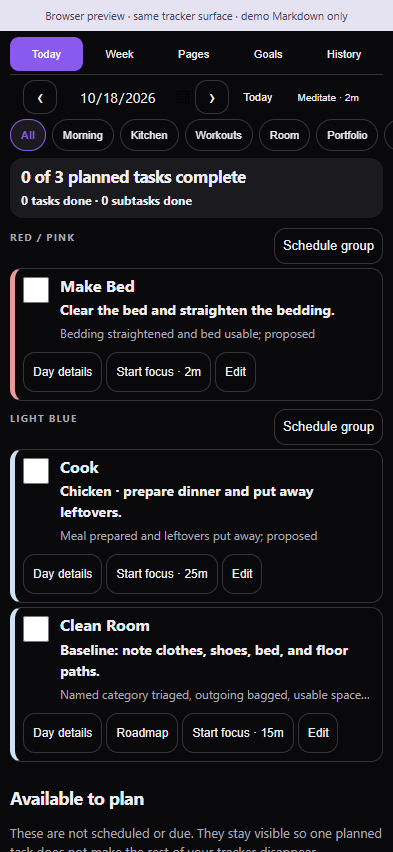
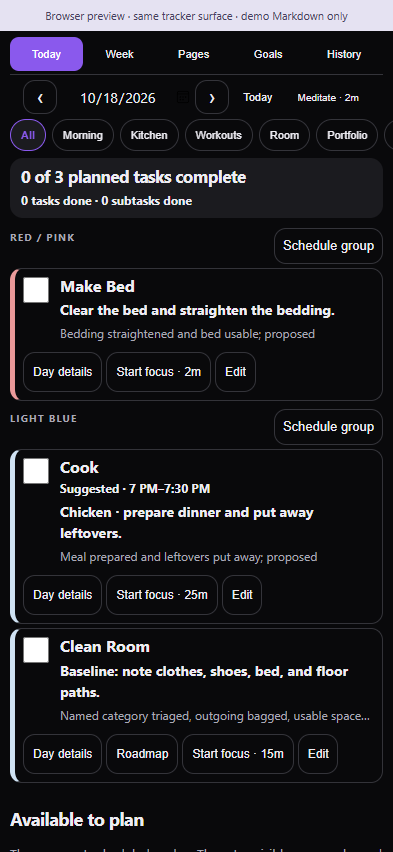
Show suggested calendar times and protect availability blocks

Changed region(s): [[0.0, 0.5493, 0.9771, 1.0], [0.9466, 0.885, 0.9771, 0.9155]]

diff --git a/main.js b/main.js
@@ -42,8 +42,10 @@ var QUEUE_TIMER_HEADER = "| Session ID | Task ID | Date | Started ISO | Elapsed 
 var LEGACY_TIMER_HEADER = "| Session ID | Task ID | Date | Started ISO | Elapsed seconds | Target seconds |";
 var WORKOUT_LOG_HEADER = "| ID | Date | Task ID | Duration minutes | Distance miles | Sets / reps / load | Notes |";
 var QUICK_COUNT_HEADER = "| ID | Date | Task ID | Amount | Unit |";
+var TIME_BLOCK_HEADER = "| Date | Task ID | Start | End | Time zone | Status | Calendar event ID | Event URL |";
+var AVAILABILITY_HEADER = "| ID | Label | Days | Start | End | Time zone |";
 var SECTIONS = ["Tasks", "Schedule", "Goals", "Sessions", "Timer"];
-var OPTIONAL_SECTIONS = ["Reflections", "Workout Log", "Quick Counts", "Subtasks"];
+var OPTIONAL_SECTIONS = ["Reflections", "Workout Log", "Quick Counts", "Subtasks", "Time Blocks", "Availability"];
 function localDay(date = /* @__PURE__ */ new Date()) {
   return `${date.getFullYear()}-${String(date.getMonth() + 1).padStart(2, "0")}-${String(date.getDate()).padStart(2, "0")}`;
 }
@@ -213,7 +215,43 @@ function parseBoard(text) {
     return sub;
   }) : [];
   unique(subtasks.map((sub) => sub.id), "subtask");
-  return { tasks, entries, goals, sessions, timer, workoutLogs, quickCounts, reflections, subtasks, start, end };
+  const timeRange = rs.get("Time Blocks");
+  const timeBlocks = timeRange ? table(lines, timeRange, TIME_BLOCK_HEADER).map((p) => ({ date: p[0], taskId: p[1], start: p[2], end: p[3], timezone: p[4], status: p[5], eventId: p[6], eventUrl: p[7] })) : [];
+  for (const block of timeBlocks) {
+    if (!validDay(block.date) || !taskIds.has(block.taskId) || !validTime(block.start) || !validTime(block.end) || block.end <= block.start || !validTimezone(block.timezone) || !["suggested", "scheduled", "needs-review"].includes(block.status)) throw new Error("Time Blocks need a real task/date, HH:MM start/end, time zone, and valid status.");
+    if (block.status === "scheduled" && (!block.eventId || block.eventId === "-")) throw new Error("Scheduled blocks need a verified calendar event ID.");
+    if (block.eventUrl !== "-" && !/^https:\/\/(calendar\.google\.com|www\.google\.com)\//.test(block.eventUrl)) throw new Error("Event URL must be a Google Calendar HTTPS link or -.");
+  }
+  if (new Set(timeBlocks.map((block) => `${block.date}/${block.taskId}`)).size !== timeBlocks.length) throw new Error("Duplicate time block for task/date.");
+  const availRange = rs.get("Availability");
+  const availability = availRange ? table(lines, availRange, AVAILABILITY_HEADER).map((p) => ({ id: p[0], label: p[1], days: p[2], start: p[3], end: p[4], timezone: p[5] })) : [];
+  unique(availability.map((block) => block.id), "availability");
+  for (const block of availability) if (!block.label || !validRepeat(block.days) || !validTime(block.start) || !validTime(block.end) || block.end <= block.start || !validTimezone(block.timezone)) throw new Error("Availability blocks need a label, repeat days, HH:MM start/end and time zone.");
+  return { tasks, entries, goals, sessions, timer, workoutLogs, quickCounts, reflections, subtasks, timeBlocks, availability, start, end };
+}
+function validTime(value) {
+  return /^([01]\d|2[0-3]):[0-5]\d$/.test(value);
+}
+function validTimezone(value) {
+  try {
+    new Intl.DateTimeFormat("en", { timeZone: value });
+    return true;
+  } catch {
+    return false;
+  }
+}
+function clockLabel(value) {
+  const [hour, minute] = value.split(":").map(Number);
+  return `${hour % 12 || 12}${minute ? ":" + String(minute).padStart(2, "0") : ""}${hour < 12 ? " AM" : " PM"}`;
+}
+function timeBlockFor(board, taskId, date) {
+  return board.timeBlocks.find((block) => block.date === date && block.taskId === taskId);
+}
+function timeBlockLabel(block) {
+  return `${block.status === "scheduled" ? "On calendar" : block.status === "needs-review" ? "Review time" : "Suggested"} \xB7 ${clockLabel(block.start)}\u2013${clockLabel(block.end)}`;
+}
+function availabilityFor(board, date) {
+  return board.availability.filter((block) => scheduled({ repeat: block.days }, date));
 }
 function taskSubtasks(board, taskId, date) {
   const detail = entryFor(board, taskId, date)?.detail.toLowerCase() || "";
@@ -302,6 +340,31 @@ function scheduleGroup(text, group, date) {
     }
   }
   return next;
+}
+function saveTimeBlock(text, block) {
+  const board = parseBoard(text);
+  if (!validTime(block.start) || !validTime(block.end) || block.end <= block.start) throw new Error("Use HH:MM start and end, with end after start.");
+  const conflict = availabilityFor(board, block.date).find((fixed) => fixed.timezone === block.timezone && block.start < fixed.end && block.end > fixed.start);
+  if (conflict) throw new Error(`This overlaps ${conflict.label} (${clockLabel(conflict.start)}\u2013${clockLabel(conflict.end)}). Choose an open time.`);
+  if (board.timeBlocks.some((other) => other.date === block.date && other.taskId !== block.taskId && other.timezone === block.timezone && block.start < other.end && block.end > other.start)) throw new Error("This overlaps another task on this date. Choose an open time.");
+  const nl = text.includes("\r\n") ? "\r\n" : "\n";
+  let next = text;
+  if (!ranges(text.split(/\r?\n/)).has("Time Blocks")) next += `${nl}## Time Blocks${nl}${nl}${TIME_BLOCK_HEADER}${nl}| --- | --- | --- | --- | --- | --- | --- | --- |${nl}`;
+  const row = `| ${[block.date, block.taskId, block.start, block.end, block.timezone, block.status, block.eventId || "-", block.eventUrl || "-"].map(cell).join(" | ")} |`;
+  next = lineEdit(next, "Time Blocks", (line) => {
+    const p = splitCells(line);
+    return p[0] === block.date && p[1] === block.taskId;
+  }, () => row, row);
+  parseBoard(next);
+  if (!entryFor(board, block.taskId, block.date)) next = setEntry(next, block.date, block.taskId, false);
+  return next;
+}
+function clearTimeBlock(text, taskId, date) {
+  if (!parseBoard(text).timeBlocks.some((block) => block.taskId === taskId && block.date === date)) return text;
+  return lineEdit(text, "Time Blocks", (line) => {
+    const p = splitCells(line);
+    return p[0] === date && p[1] === taskId;
+  }, () => "", "");
 }
 function saveSubtask(text, sub) {
   let next = text;
@@ -732,6 +795,8 @@ var Surface = class {
     const meditation = b.tasks.find((t) => t.id === "mindfulness");
     if (meditation) this.button(controls, meditation.minutes ? `Meditate \xB7 ${meditation.minutes}m` : "Meditate", () => this.beginFocus(() => this.host.start(meditation, this.day)), "cs-link cs-meditate", "Start meditation mode");
     this.el("p", this.root, "cs-muted cs-sprint", `Sprint ${b.start} \u2192 ${b.end}`);
+    const fixed = availabilityFor(b, this.day);
+    if (fixed.length) this.el("p", this.root, "cs-day-availability", fixed.map((block) => `${block.label} ${clockLabel(block.start)}\u2013${clockLabel(block.end)}`).join(" \xB7 "));
     if (b.timer) this.renderTimer();
     if (this.tab === "Today") this.renderToday();
     else if (this.tab === "Week") this.renderWeek();
@@ -850,6 +915,18 @@ var Surface = class {
     const body = this.el("div", row, "cs-card-body");
     this.el("h3", body, "cs-task-title", task.title);
     this.el("p", body, "cs-meta", `${task.page} \xB7 ${task.kind}`);
+    const block = timeBlockFor(b, task.id, this.day);
+    if (block) {
+      const time = this.el("p", body, "cs-time-slot", timeBlockLabel(block));
+      time.title = block.timezone;
+      if (block.status === "scheduled" && block.eventUrl !== "-") {
+        const link = this.el("a", time, "cs-event-link", " \u2197");
+        link.href = block.eventUrl;
+        link.setAttribute("aria-label", "Open Google Calendar event");
+        link.target = "_blank";
+        link.rel = "noopener noreferrer";
+      }
+    }
     if (entry?.detail) this.el("p", body, "cs-detail", entry.detail);
     this.el("p", body, "cs-definition", task.definition);
     const actions = this.el("div", card, "cs-actions");
@@ -936,8 +1013,13 @@ var Surface = class {
         for (const day of days) {
           const entry = entryFor(this.board, task.id, day);
           const isPlanned = planned(this.board, task, day);
+          const block = timeBlockFor(this.board, task.id, day);
           const cell2 = this.el("td", row);
-          const btn = this.button(cell2, entry?.done ? "\u2713" : isPlanned ? "\u25CB" : "+", () => isPlanned ? this.host.check(task, day, !entry?.done) : this.host.schedule(task, day, ""), entry?.done ? "cs-cell done" : isPlanned ? "cs-cell planned" : "cs-cell", `${task.title}, ${day}: ${entry?.done ? "completed" : isPlanned ? "planned" : "add to plan"}`);
+          const btn = this.button(cell2, entry?.done ? "\u2713" : isPlanned ? "\u25CB" : "+", () => isPlanned ? this.host.check(task, day, !entry?.done) : this.host.schedule(task, day, ""), entry?.done ? "cs-cell done" : isPlanned ? "cs-cell planned" : "cs-cell", `${task.title}, ${day}: ${entry?.done ? "completed" : isPlanned ? "planned" : "add to plan"}${block ? `, ${timeBlockLabel(block)}, ${block.timezone}` : ""}`);
+          if (block) {
+            this.el("span", btn, "cs-cell-time", `${block.status === "scheduled" ? "" : "~"}${clockLabel(block.start)}`);
+            btn.title = `${timeBlockLabel(block)} \xB7 ${block.timezone}`;
+          }
           btn.setAttribute("aria-pressed", String(!!entry?.done));
         }
       }
@@ -1745,13 +1827,29 @@ var SessionModal = class extends FormModal {
 var EntryModal = class extends FormModal {
   constructor(app, plugin, task, day, text, path = plugin.settings.path) {
     super(app, `${task.title} \xB7 ${day}`);
-    const original = entryFor(parseBoard(text), task.id, day);
+    const board = parseBoard(text);
+    const original = entryFor(board, task.id, day);
+    const originalBlock = timeBlockFor(board, task.id, day);
     let detail = original?.detail || "";
+    let start = originalBlock?.start || "", end = originalBlock?.end || "", timezone = originalBlock?.timezone || board.availability[0]?.timezone || "America/Chicago";
     this.text("Plan / actual result", "Keep source assignments intact; add actual sets, reps, distances, evidence, or blockers here.", detail, (v) => detail = v);
+    this.field("Suggested start", "24-hour local time, such as 19:00; leave both time fields empty for flexible.", start, (v) => start = v, "time");
+    this.field("Suggested end", "Same day, after the start.", end, (v) => end = v, "time");
+    this.field("Time zone", "Time zone used by the calendar block.", timezone, (v) => timezone = v.trim());
     this.save(() => plugin.change((current) => {
-      const entry = entryFor(parseBoard(current), task.id, day);
-      if (JSON.stringify(entry) !== JSON.stringify(original)) throw new Error("This entry changed in Markdown. Reopen the latest version.");
-      return setEntry(current, day, task.id, entry?.done || false, detail);
+      const latest = parseBoard(current);
+      const entry = entryFor(latest, task.id, day);
+      const block = timeBlockFor(latest, task.id, day);
+      if (JSON.stringify(entry) !== JSON.stringify(original) || JSON.stringify(block) !== JSON.stringify(originalBlock)) throw new Error("This entry changed in Markdown. Reopen the latest version.");
+      let next = setEntry(current, day, task.id, entry?.done || false, detail);
+      if (start || end) {
+        const changed = start !== originalBlock?.start || end !== originalBlock?.end || timezone !== originalBlock?.timezone;
+        next = saveTimeBlock(next, { date: day, taskId: task.id, start, end, timezone, status: changed ? "suggested" : originalBlock?.status || "suggested", eventId: originalBlock?.eventId || "-", eventUrl: originalBlock?.eventUrl || "-" });
+      } else {
+        if (block?.eventId && block.eventId !== "-") throw new Error("This time has a calendar event. Change its time and reconcile the linked event before clearing it.");
+        next = clearTimeBlock(next, task.id, day);
+      }
+      return next;
     }, path));
   }
 };

diff --git a/src/model.ts b/src/model.ts
@@ -17,7 +17,9 @@ export interface FocusStep {id:string; taskId:string; subtask?:Subtask; title:st
 export interface WorkoutLog {id:string; date:string; taskId:'workout'|'treadmill'; minutes:number; distance:number; details:string; note:string}
 export interface QuickCount {id:string; date:string; taskId:string; amount:number; unit:string}
 export interface GroupRef {kind:'page'|'color'; value:string}
-export interface Board {tasks:Task[]; entries:Entry[]; goals:Goal[]; sessions:Session[]; timer:Timer|null; workoutLogs:WorkoutLog[]; quickCounts:QuickCount[]; reflections:string[]; subtasks:Subtask[]; start:string; end:string}
+export interface TimeBlock {date:string;taskId:string;start:string;end:string;timezone:string;status:'suggested'|'scheduled'|'needs-review';eventId:string;eventUrl:string}
+export interface Availability {id:string;label:string;days:string;start:string;end:string;timezone:string}
+export interface Board {tasks:Task[]; entries:Entry[]; goals:Goal[]; sessions:Session[]; timer:Timer|null; workoutLogs:WorkoutLog[]; quickCounts:QuickCount[]; reflections:string[]; subtasks:Subtask[]; timeBlocks:TimeBlock[]; availability:Availability[]; start:string; end:string}
 export const TASK_HEADER='| ID | Task | Color | Page | Kind | Repeat | Timer minutes | Done means |';
 export const SESSION_HEADER='| Session ID | Date | Task ID | Seconds | Note |';
 export const TIMER_HEADER='| Session ID | Task ID | Date | Started ISO | Elapsed seconds | Target seconds | Queue cursor | Step offset seconds |';
@@ -25,7 +27,9 @@ const QUEUE_TIMER_HEADER='| Session ID | Task ID | Date | Started ISO | Elapsed 
 const LEGACY_TIMER_HEADER='| Session ID | Task ID | Date | Started ISO | Elapsed seconds | Target seconds |';
 export const WORKOUT_LOG_HEADER='| ID | Date | Task ID | Duration minutes | Distance miles | Sets / reps / load | Notes |';
 export const QUICK_COUNT_HEADER='| ID | Date | Task ID | Amount | Unit |';
-const SECTIONS=['Tasks','Schedule','Goals','Sessions','Timer'];const OPTIONAL_SECTIONS=['Reflections','Workout Log','Quick Counts','Subtasks'];
+export const TIME_BLOCK_HEADER='| Date | Task ID | Start | End | Time zone | Status | Calendar event ID | Event URL |';
+export const AVAILABILITY_HEADER='| ID | Label | Days | Start | End | Time zone |';
+const SECTIONS=['Tasks','Schedule','Goals','Sessions','Timer'];const OPTIONAL_SECTIONS=['Reflections','Workout Log','Quick Counts','Subtasks','Time Blocks','Availability'];
 export function localDay(date=new Date()):string {return `${date.getFullYear()}-${String(date.getMonth()+1).padStart(2,'0')}-${String(date.getDate()).padStart(2,'0')}`;}
 export function addDays(day:string,n:number):string {const d=new Date(`${day}T12:00:00`);d.setDate(d.getDate()+n);return localDay(d);}
 export function validDay(day:string):boolean {return /^\d{4}-\d{2}-\d{2}$/.test(day)&&localDay(new Date(`${day}T12:00:00`))===day;}
@@ -74,8 +78,18 @@ export function parseBoard(text:string):Board {
   const reflectionRange=rs.get('Reflections');const reflections=reflectionRange?dataLines(lines,reflectionRange).map(line=>line.trim().replace(/^[-*]\s+|^>\s?/,'')).filter(line=>line&&!line.startsWith('<!--')):[];
   const match=text.match(/^Sprint: (\d{4}-\d{2}-\d{2}) \/ (\d{4}-\d{2}-\d{2})\s*$/m);const start=match?.[1]||localDay();const end=match?.[2]||addDays(start,13);if(!validDay(start)||!validDay(end)||end<start)throw new Error('Invalid Sprint date range.');
   const subRange=rs.get('Subtasks');const subtasks=subRange?checkboxRows(lines,subRange).map(({done,parts:p})=>{if(p.length!==7)throw new Error('Subtask rows need ID | Task ID | Context or - | Minutes | Action | Done means | Completed date or -.');const sub:Subtask={id:p[0],taskId:p[1],context:p[2],minutes:number(p[3]),title:p[4],definition:p[5],completed:p[6],done};if(!taskIds.has(sub.taskId)||!sub.title||!sub.context||sub.minutes>1440||(sub.completed!=='-'&&!validDay(sub.completed)))throw new Error('Invalid subtask parent, title, duration, or completed date.');return sub;}):[];unique(subtasks.map(sub=>sub.id),'subtask');
-  return {tasks,entries,goals,sessions,timer,workoutLogs,quickCounts,reflections,subtasks,start,end};
+  const timeRange=rs.get('Time Blocks');const timeBlocks=timeRange?table(lines,timeRange,TIME_BLOCK_HEADER).map(p=>({date:p[0],taskId:p[1],start:p[2],end:p[3],timezone:p[4],status:p[5] as TimeBlock['status'],eventId:p[6],eventUrl:p[7]})):[];
+  for(const block of timeBlocks){if(!validDay(block.date)||!taskIds.has(block.taskId)||!validTime(block.start)||!validTime(block.end)||block.end<=block.start||!validTimezone(block.timezone)||!['suggested','scheduled','needs-review'].includes(block.status))throw new Error('Time Blocks need a real task/date, HH:MM start/end, time zone, and valid status.');if(block.status==='scheduled'&&(!block.eventId||block.eventId==='-'))throw new Error('Scheduled blocks need a verified calendar event ID.');if(block.eventUrl!=='-'&&!/^https:\/\/(calendar\.google\.com|www\.google\.com)\//.test(block.eventUrl))throw new Error('Event URL must be a Google Calendar HTTPS link or -.');}
+  if(new Set(timeBlocks.map(block=>`${block.date}/${block.taskId}`)).size!==timeBlocks.length)throw new Error('Duplicate time block for task/date.');
+  const availRange=rs.get('Availability');const availability=availRange?table(lines,availRange,AVAILABILITY_HEADER).map(p=>({id:p[0],label:p[1],days:p[2],start:p[3],end:p[4],timezone:p[5]})):[];unique(availability.map(block=>block.id),'availability');for(const block of availability)if(!block.label||!validRepeat(block.days)||!validTime(block.start)||!validTime(block.end)||block.end<=block.start||!validTimezone(block.timezone))throw new Error('Availability blocks need a label, repeat days, HH:MM start/end and time zone.');
+  return {tasks,entries,goals,sessions,timer,workoutLogs,quickCounts,reflections,subtasks,timeBlocks,availability,start,end};
 }
+export function validTime(value:string):boolean{return /^([01]\d|2[0-3]):[0-5]\d$/.test(value);}
+function validTimezone(value:string):boolean{try{new Intl.DateTimeFormat('en',{timeZone:value});return true;}catch{return false;}}
+export function clockLabel(value:string):string{const [hour,minute]=value.split(':').map(Number);return `${hour%12||12}${minute?':'+String(minute).padStart(2,'0'):''}${hour<12?' AM':' PM'}`;}
+export function timeBlockFor(board:Board,taskId:string,date:string):TimeBlock|undefined{return board.timeBlocks.find(block=>block.date===date&&block.taskId===taskId);}
+export function timeBlockLabel(block:TimeBlock):string{return `${block.status==='scheduled'?'On calendar':block.status==='needs-review'?'Review time':'Suggested'} · ${clockLabel(block.start)}–${clockLabel(block.end)}`;}
+export function availabilityFor(board:Board,date:string):Availability[]{return board.availability.filter(block=>scheduled({repeat:block.days} as Task,date));}
 export function taskSubtasks(board:Board,taskId:string,date:string):Subtask[]{const detail=entryFor(board,taskId,date)?.detail.toLowerCase()||'';return board.subtasks.filter(sub=>sub.taskId===taskId&&(sub.context==='-'||detail.includes(sub.context.toLowerCase())));}
 export function focusQueue(board:Board,timer:Timer):FocusStep[]{const group=parseGroupTimerId(timer.taskId);const tasks=board.tasks.filter(task=>group?(group.kind==='page'?task.page===group.value:task.color===group.value):task.id===timer.taskId);return tasks.flatMap(task=>{const subs=taskSubtasks(board,task.id,timer.date);return subs.length?subs.map(sub=>({id:sub.id,taskId:task.id,subtask:sub,title:sub.title,definition:sub.definition,minutes:sub.minutes,done:sub.done})):[{id:task.id,taskId:task.id,title:task.title,definition:task.definition,minutes:task.minutes,done:!!entryFor(board,task.id,timer.date)?.done}];});}
 export function dailyWins(board:Board,date:string):{tasks:number;subtasks:number}{return {tasks:board.entries.filter(entry=>entry.date===date&&entry.done).length,subtasks:board.subtasks.filter(sub=>sub.done&&sub.completed===date).length};}
@@ -97,6 +111,14 @@ export function setEntry(text:string,date:string,id:string,done:boolean,detail?:
 export function scheduleGroup(text:string,group:GroupRef,date:string):string{
   let board=parseBoard(text);if(!validDay(date)||!group.value.trim())throw new Error('A schedule group needs a valid date and group.');const tasks=board.tasks.filter(task=>group.kind==='page'?task.page===group.value:task.color===group.value);if(!tasks.length)throw new Error('This schedule group has no tasks.');let next=text;for(const task of tasks){if(!entryFor(board,task.id,date)){next=setEntry(next,date,task.id,false);board=parseBoard(next);}}return next;
 }
+export function saveTimeBlock(text:string,block:TimeBlock):string{
+  const board=parseBoard(text);if(!validTime(block.start)||!validTime(block.end)||block.end<=block.start)throw new Error('Use HH:MM start and end, with end after start.');const conflict=availabilityFor(board,block.date).find(fixed=>fixed.timezone===block.timezone&&block.start<fixed.end&&block.end>fixed.start);if(conflict)throw new Error(`This overlaps ${conflict.label} (${clockLabel(conflict.start)}–${clockLabel(conflict.end)}). Choose an open time.`);
+  if(board.timeBlocks.some(other=>other.date===block.date&&other.taskId!==block.taskId&&other.timezone===block.timezone&&block.start<other.end&&block.end>other.start))throw new Error('This overlaps another task on this date. Choose an open time.');
+  const nl=text.includes('\r\n')?'\r\n':'\n';let next=text;if(!ranges(text.split(/\r?\n/)).has('Time Blocks'))next+=`${nl}## Time Blocks${nl}${nl}${TIME_BLOCK_HEADER}${nl}| --- | --- | --- | --- | --- | --- | --- | --- |${nl}`;
+  const row=`| ${[block.date,block.taskId,block.start,block.end,block.timezone,block.status,block.eventId||'-',block.eventUrl||'-'].map(cell).join(' | ')} |`;
+  next=lineEdit(next,'Time Blocks',line=>{const p=splitCells(line);return p[0]===block.date&&p[1]===block.taskId;},()=>row,row);parseBoard(next);if(!entryFor(board,block.taskId,block.date))next=setEntry(next,block.date,block.taskId,false);return next;
+}
+export function clearTimeBlock(text:string,taskId:string,date:string):string{if(!parseBoard(text).timeBlocks.some(block=>block.taskId===taskId&&block.date===date))return text;return lineEdit(text,'Time Blocks',line=>{const p=splitCells(line);return p[0]===date&&p[1]===taskId;},()=>'', '');}
 export function saveSubtask(text:string,sub:Subtask):string{
   let next=text;const nl=text.includes('\r\n')?'\r\n':'\n';if(!ranges(text.split(/\r?\n/)).has('Subtasks'))next+=`${nl}## Subtasks${nl}${nl}<!-- - [ ] ID | Task ID | Context or - | Minutes | Action | Done means | Completed date or - -->${nl}`;
   const row=`- [${sub.done?'x':' '}] ${[sub.id,sub.taskId,sub.context,String(sub.minutes),sub.title,sub.definition,sub.completed].map(cell).join(' | ')}`;

diff --git a/src/surface.ts b/src/surface.ts
@@ -1,4 +1,4 @@
-import { Board, COLORS, ColorId, Task, Goal, WorkoutLog, QuickCount, GroupRef, Subtask, parseBoard, entryFor, planned, addDays, localDay, timerSeconds, duration, parseGroupTimerId, focusQueue, taskSubtasks, setSubtaskDone, completeFocusStep, dailyWins } from './model';
+import { Board, COLORS, ColorId, Task, Goal, WorkoutLog, QuickCount, GroupRef, Subtask, parseBoard, entryFor, planned, addDays, localDay, timerSeconds, duration, parseGroupTimerId, focusQueue, taskSubtasks, setSubtaskDone, completeFocusStep, dailyWins, timeBlockFor, timeBlockLabel, availabilityFor, clockLabel } from './model';
 import { addRoadmap } from './roadmaps';
 
 export interface Host {
@@ -55,6 +55,7 @@ export class Surface {
     const date=this.el('input',controls,'cs-date');date.type='date';date.value=this.day;date.setAttribute('aria-label','Selected date');date.addEventListener('change',()=>{if(date.value){this.day=date.value;this.render();}});
     this.button(controls,'›',()=>{this.day=addDays(this.day,1);this.render();},'cs-icon','Next day');this.button(controls,'Today',()=>{this.day=localDay();this.render();},'cs-link');const meditation=b.tasks.find(t=>t.id==='mindfulness');if(meditation)this.button(controls,meditation.minutes?`Meditate · ${meditation.minutes}m`:'Meditate',()=>this.beginFocus(()=>this.host.start(meditation,this.day)),'cs-link cs-meditate','Start meditation mode');
     this.el('p',this.root,'cs-muted cs-sprint',`Sprint ${b.start} → ${b.end}`);
+    const fixed=availabilityFor(b,this.day);if(fixed.length)this.el('p',this.root,'cs-day-availability',fixed.map(block=>`${block.label} ${clockLabel(block.start)}–${clockLabel(block.end)}`).join(' · '));
     if(b.timer)this.renderTimer();
     if(this.tab==='Today')this.renderToday();else if(this.tab==='Week')this.renderWeek();else if(this.tab==='Pages')this.renderPages();else if(this.tab==='Goals')this.renderGoals();else this.renderHistory();
     const mobileTools=this.el('footer',this.root,'cs-mobile-tools');this.button(mobileTools,'Markdown ↗',()=>this.host.openNote(),'cs-link');this.button(mobileTools,'Settings',()=>this.host.settings(),'cs-link');if(this.host.openDaily)this.button(mobileTools,'Daily note ↗',()=>this.host.openDaily!(),'cs-link');
@@ -81,7 +82,7 @@ export class Surface {
     const b=this.board!;const entry=entryFor(b,task.id,this.day);const card=this.el('article',parent,`cs-card ${entry?.done?'is-done':''}`);this.taskColor(task,card);
     const row=this.el('div',card,'cs-card-main');
     if(scheduledToday){const target=this.el('label',row,'cs-check-target');const check=this.el('input',target,'cs-check');check.type='checkbox';check.checked=!!entry?.done;check.setAttribute('aria-label',`Complete ${task.title}`);check.addEventListener('change',()=>{void this.run(async()=>{try{await this.host.check(task,this.day,check.checked);}catch(e){check.checked=!check.checked;throw e;}});});}
-    const body=this.el('div',row,'cs-card-body');this.el('h3',body,'cs-task-title',task.title);this.el('p',body,'cs-meta',`${task.page} · ${task.kind}`);if(entry?.detail)this.el('p',body,'cs-detail',entry.detail);this.el('p',body,'cs-definition',task.definition);
+    const body=this.el('div',row,'cs-card-body');this.el('h3',body,'cs-task-title',task.title);this.el('p',body,'cs-meta',`${task.page} · ${task.kind}`);const block=timeBlockFor(b,task.id,this.day);if(block){const time=this.el('p',body,'cs-time-slot',timeBlockLabel(block));time.title=block.timezone;if(block.status==='scheduled'&&block.eventUrl!=='-'){const link=this.el('a',time,'cs-event-link',' ↗');link.href=block.eventUrl;link.setAttribute('aria-label','Open Google Calendar event');link.target='_blank';link.rel='noopener noreferrer';}}if(entry?.detail)this.el('p',body,'cs-detail',entry.detail);this.el('p',body,'cs-definition',task.definition);
     const actions=this.el('div',card,'cs-actions');if(!scheduledToday)this.button(actions,'+ Plan this day',()=>this.host.schedule(task,this.day,''),'cs-small');
     if(scheduledToday)this.button(actions,'Day details',()=>this.host.editEntry(task,this.day),'cs-small');
     if(task.id==='workout'||task.id==='treadmill')this.button(actions,task.id==='workout'?'Manage workout':'Manage treadmill',()=>{this.activitySurface=task.id as 'workout'|'treadmill';this.render();},'cs-small');const increments=this.quickIncrements(task);if(increments.length){const total=this.board!.quickCounts.filter(count=>count.date===this.day&&count.taskId===task.id&&count.unit===increments[0].unit).reduce((sum,count)=>sum+count.amount,0);if(total)this.el('span',actions,'cs-quick-total',`Today: ${total} ${increments[0].unit}`);for(const increment of increments)this.button(actions,`+${increment.amount} ${increment.unit}`,()=>this.host.quickCount({date:this.day,taskId:task.id,amount:increment.amount,unit:increment.unit}),'cs-small cs-quick',`Add ${increment.amount} ${increment.unit} for ${task.title}`);}
@@ -98,7 +99,7 @@ export class Surface {
   private renderWeek():void {
     this.pageFilter(this.root);this.el('h2',this.root,'','The next seven days');this.el('p',this.root,'cs-muted','✓ completed · ○ planned · + unscheduled. Tap + to plan; tap a planned day to check it.');
     const wrap=this.el('div',this.root,'cs-grid-scroll');const table=this.el('table',wrap,'cs-grid');const thead=this.el('thead',table);const head=this.el('tr',thead);this.el('th',head,'','Task');const days=Array.from({length:7},(_,i)=>addDays(this.day,i));for(const day of days){const th=this.el('th',head,'',new Date(`${day}T12:00:00`).toLocaleDateString(undefined,{weekday:'short',day:'numeric'}));th.scope='col';}
-    const body=this.el('tbody',table);for(const color of COLORS){for(const task of this.board!.tasks.filter(t=>t.color===color.id&&(this.page==='All'||t.page===this.page))){const row=this.el('tr',body);this.taskColor(task,row);const name=this.el('th',row,'cs-grid-name',task.title);name.scope='row';for(const day of days){const entry=entryFor(this.board!,task.id,day);const isPlanned=planned(this.board!,task,day);const cell=this.el('td',row);const btn=this.button(cell,entry?.done?'✓':isPlanned?'○':'+',()=>isPlanned?this.host.check(task,day,!entry?.done):this.host.schedule(task,day,''),entry?.done?'cs-cell done':isPlanned?'cs-cell planned':'cs-cell',`${task.title}, ${day}: ${entry?.done?'completed':isPlanned?'planned':'add to plan'}`);btn.setAttribute('aria-pressed',String(!!entry?.done));}}}
+    const body=this.el('tbody',table);for(const color of COLORS){for(const task of this.board!.tasks.filter(t=>t.color===color.id&&(this.page==='All'||t.page===this.page))){const row=this.el('tr',body);this.taskColor(task,row);const name=this.el('th',row,'cs-grid-name',task.title);name.scope='row';for(const day of days){const entry=entryFor(this.board!,task.id,day);const isPlanned=planned(this.board!,task,day);const block=timeBlockFor(this.board!,task.id,day);const cell=this.el('td',row);const btn=this.button(cell,entry?.done?'✓':isPlanned?'○':'+',()=>isPlanned?this.host.check(task,day,!entry?.done):this.host.schedule(task,day,''),entry?.done?'cs-cell done':isPlanned?'cs-cell planned':'cs-cell',`${task.title}, ${day}: ${entry?.done?'completed':isPlanned?'planned':'add to plan'}${block?`, ${timeBlockLabel(block)}, ${block.timezone}`:''}`);if(block){this.el('span',btn,'cs-cell-time',`${block.status==='scheduled'?'':'~'}${clockLabel(block.start)}`);btn.title=`${timeBlockLabel(block)} · ${block.timezone}`;}btn.setAttribute('aria-pressed',String(!!entry?.done));}}}
   }
   private renderGoals():void {
     this.pageFilter(this.root);this.el('h2',this.root,'','Goals with evidence');const goals=this.board!.goals.filter(g=>this.page==='All'||g.page===this.page);

diff --git a/scripts/preview.ts b/scripts/preview.ts
@@ -1,6 +1,6 @@
 import { Surface,Host } from '../src/surface';
 import { starter } from '../src/starter';
-import { parseBoard,setEntry,saveTask,saveSubtask,setGoal,scheduleGroup,startTimer,startGroupTimer,moveGroupTimer,pauseTimer,resumeTimer,refreshTimer,finishTimer,addWorkoutLog,addQuickCount,localDay,addDays,entryFor,Task,Goal } from '../src/model';
+import { parseBoard,setEntry,saveTask,saveSubtask,setGoal,scheduleGroup,startTimer,startGroupTimer,moveGroupTimer,pauseTimer,resumeTimer,refreshTimer,finishTimer,addWorkoutLog,addQuickCount,localDay,addDays,entryFor,Task,Goal,timeBlockFor,saveTimeBlock,clearTimeBlock } from '../src/model';
 
 let md=localStorage.getItem('color-sprint-demo')||starter();
 if(!parseBoard(md).entries.length){const day=localDay();md=setEntry(md,day,'make-bed',false,'Clear the bed and straighten the bedding.');md=setEntry(md,day,'cook',false,'Chicken · prepare dinner and put away leftovers.');md=setEntry(md,day,'clean-room',false,'Baseline: note clothes, shoes, bed, and floor paths.');md=setGoal(md,{id:'room-fit',due:addDays(day,13),page:'Room',title:'Clothing and shoes fit their storage',evidence:'',done:false});}
@@ -12,7 +12,7 @@ const host:Host={read:async()=>md,change,
   editSubtask:(task,sub)=>dialog('Roadmap step',{Step:sub?.title||'',Minutes:String(sub?.minutes??10),Context:sub?.context||'-','Done means':sub?.definition||''},v=>change(s=>saveSubtask(s,{id:sub?.id||`step-${Date.now()}`,taskId:task.id,title:v.Step,minutes:Number(v.Minutes),context:v.Context||'-',definition:v['Done means'],done:sub?.done||false,completed:sub?.completed||'-'}))),
   editTask:(t?:Task)=>dialog(t?'Edit task':'Add task',{Task:t?.title||'',Page:t?.page||'Morning',Color:t?.color||'pink',Repeat:t?.repeat||'-','Timer minutes':String(t?.minutes??10),'Done means':t?.definition||''},async v=>{await change(s=>saveTask(s,{id:t?.id||`task-${Date.now()}`,title:v.Task,page:v.Page,color:v.Color as Task['color'],repeat:v.Repeat,minutes:Number(v['Timer minutes']),definition:v['Done means'],kind:t?.kind||'habit'}));}),
   editGoal:(g?:Goal)=>dialog('Goal progress',{Goal:g?.title||'',Page:g?.page||'Room',Due:g?.due||'-',Evidence:g?.evidence||'',Status:g?.done?'done':'open'},v=>change(s=>setGoal(s,{id:g?.id||`goal-${Date.now()}`,title:v.Goal,page:v.Page,due:v.Due,evidence:v.Evidence,done:v.Status==='done'}))),
-  editEntry:(t,day)=>dialog('Day details',{Detail:entryFor(parseBoard(md),t.id,day)?.detail||''},v=>change(s=>setEntry(s,day,t.id,entryFor(parseBoard(s),t.id,day)?.done||false,v.Detail))),
+  editEntry:(t,day)=>{const block=timeBlockFor(parseBoard(md),t.id,day);dialog('Day details',{Detail:entryFor(parseBoard(md),t.id,day)?.detail||'','Suggested start':block?.start||'','Suggested end':block?.end||'','Time zone':block?.timezone||Intl.DateTimeFormat().resolvedOptions().timeZone},v=>change(s=>{let next=setEntry(s,day,t.id,entryFor(parseBoard(s),t.id,day)?.done||false,v.Detail);return v['Suggested start']||v['Suggested end']?saveTimeBlock(next,{date:day,taskId:t.id,start:v['Suggested start'],end:v['Suggested end'],timezone:v['Time zone'],status:'suggested',eventId:block?.eventId||'-',eventUrl:block?.eventUrl||'-'}):clearTimeBlock(next,t.id,day);}));},
   schedule:(t,day,detail)=>change(s=>setEntry(s,day,t.id,false,detail)),scheduleGroup:(group,day)=>change(s=>scheduleGroup(s,group,day)),check:(t,day,done)=>change(s=>setEntry(s,day,t.id,done)),
   start:(t,day)=>change(s=>startTimer(s,t.id,day)),startGroup:(group,day)=>change(s=>startGroupTimer(s,group,day)),moveGroup:(id,delta)=>change(s=>moveGroupTimer(s,id,delta)),pause:id=>change(s=>pauseTimer(s,id)),resume:id=>change(s=>resumeTimer(s,id)),refresh:id=>change(s=>refreshTimer(s,id)),logWorkout:log=>change(s=>addWorkoutLog(s,log)),quickCount:count=>change(s=>addQuickCount(s,count)),finish:id=>dialog('Save session',{Result:''},v=>change(s=>finishTimer(s,id,v.Result))),
   openNote:()=>dialog('Tracker Markdown',{Markdown:md},v=>change(()=>v.Markdown)),createNote:()=>change(()=>starter()),settings:()=>dialog('Preview settings',{Info:'In Obsidian, this chooses your vault Markdown path.'},()=>{}),error:e=>dialog('Could not save',{Error:String(e)},()=>{})

diff --git a/src/main.ts b/src/main.ts
@@ -1,5 +1,5 @@
 import { App, ItemView, MarkdownRenderChild, Modal, Notice, Plugin, PluginSettingTab, Setting, TFile, WorkspaceLeaf, ViewStateResult, getFrontMatterInfo, parseYaml, debounce } from 'obsidian';
-import { COLORS, Task, Goal, WorkoutLog, QuickCount, GroupRef, Subtask, parseBoard, saveTask, saveSubtask, setGoal, setEntry, scheduleGroup, entryFor, startTimer, startGroupTimer, moveGroupTimer, pauseTimer, resumeTimer, refreshTimer, finishTimer, addWorkoutLog, addQuickCount, localDay, validDay } from './model';
+import { COLORS, Task, Goal, WorkoutLog, QuickCount, GroupRef, Subtask, parseBoard, saveTask, saveSubtask, setGoal, setEntry, scheduleGroup, entryFor, startTimer, startGroupTimer, moveGroupTimer, pauseTimer, resumeTimer, refreshTimer, finishTimer, addWorkoutLog, addQuickCount, localDay, validDay, timeBlockFor, saveTimeBlock, clearTimeBlock } from './model';
 import { starter } from './starter';
 import { Surface, Host, SurfaceOptions } from './surface';
 import { DailyLink, dailyLink, embedLink, dailyScaffold, dailyFilename, vaultPath } from './daily';
@@ -156,8 +156,9 @@ class SessionModal extends FormModal {
 }
 class EntryModal extends FormModal {
   constructor(app:App,plugin:ColorSprint,task:Task,day:string,text:string,path=plugin.settings.path){
-    super(app,`${task.title} · ${day}`);const original=entryFor(parseBoard(text),task.id,day);let detail=original?.detail||'';
+    super(app,`${task.title} · ${day}`);const board=parseBoard(text);const original=entryFor(board,task.id,day);const originalBlock=timeBlockFor(board,task.id,day);let detail=original?.detail||'';let start=originalBlock?.start||'',end=originalBlock?.end||'',timezone=originalBlock?.timezone||board.availability[0]?.timezone||'America/Chicago';
     this.text('Plan / actual result','Keep source assignments intact; add actual sets, reps, distances, evidence, or blockers here.',detail,v=>detail=v);
-    this.save(()=>plugin.change(current=>{const entry=entryFor(parseBoard(current),task.id,day);if(JSON.stringify(entry)!==JSON.stringify(original))throw new Error('This entry changed in Markdown. Reopen the latest version.');return setEntry(current,day,task.id,entry?.done||false,detail);},path));
+    this.field('Suggested start','24-hour local time, such as 19:00; leave both time fields empty for flexible.',start,v=>start=v,'time');this.field('Suggested end','Same day, after the start.',end,v=>end=v,'time');this.field('Time zone','Time zone used by the calendar block.',timezone,v=>timezone=v.trim());
+    this.save(()=>plugin.change(current=>{const latest=parseBoard(current);const entry=entryFor(latest,task.id,day);const block=timeBlockFor(latest,task.id,day);if(JSON.stringify(entry)!==JSON.stringify(original)||JSON.stringify(block)!==JSON.stringify(originalBlock))throw new Error('This entry changed in Markdown. Reopen the latest version.');let next=setEntry(current,day,task.id,entry?.done||false,detail);if(start||end){const changed=start!==originalBlock?.start||end!==originalBlock?.end||timezone!==originalBlock?.timezone;next=saveTimeBlock(next,{date:day,taskId:task.id,start,end,timezone,status:changed?'suggested':originalBlock?.status||'suggested',eventId:originalBlock?.eventId||'-',eventUrl:originalBlock?.eventUrl||'-'});}else{if(block?.eventId&&block.eventId!=='-')throw new Error('This time has a calendar event. Change its time and reconcile the linked event before clearing it.');next=clearTimeBlock(next,task.id,day);}return next;},path));
   }
 }

diff --git a/tests/model.test.ts b/tests/model.test.ts
@@ -4,6 +4,7 @@ import { starter } from '../src/starter';
 import { parseBoard, setEntry, saveTask, setGoal, scheduleGroup, startTimer, startGroupTimer, moveGroupTimer, parseGroupTimerId, pauseTimer, resumeTimer, refreshTimer, finishTimer, addWorkoutLog, addQuickCount, timerSeconds, planned, splitCells, cell, addDays } from '../src/model';
 import { TIMER_HEADER, focusQueue, completeFocusStep, dailyWins, setSubtaskDone } from '../src/model';
 import { addRoadmap } from '../src/roadmaps';
+import { saveTimeBlock, timeBlockFor, availabilityFor, timeBlockLabel, AVAILABILITY_HEADER } from '../src/model';
 
 const seed=()=>starter('2026-10-18');
 test('all 22 exact task labels and all six source colors survive Markdown parsing',()=>{
@@ -60,4 +61,7 @@ test('portfolio roadmap queue persists durations, preserves total focus, and cou
 });
 test('tax and letters roadmaps remain scoped to their own schedule details',()=>{
   let md=addRoadmap(addRoadmap(seed(),'hard-task','2020 Tax'),'hard-task','Letters');md=setEntry(md,'2026-10-19','hard-task',false,'2020 Tax');md=setEntry(md,'2026-10-21','hard-task',false,'Letters');md=startTimer(md,'hard-task','2026-10-19');let b=parseBoard(md);assert.ok(focusQueue(b,b.timer!).every(step=>step.subtask?.context==='2020 Tax'));md=finishTimer(md,b.timer!.id,'');md=startTimer(md,'hard-task','2026-10-21');b=parseBoard(md);assert.ok(focusQueue(b,b.timer!).every(step=>step.subtask?.context==='Letters'));
+});
+test('structured time proposals preserve task evidence, expose local times and block protected overlaps',()=>{
+  const reserved=`\n## Availability\n\n${AVAILABILITY_HEADER}\n| --- | --- | --- | --- | --- | --- |\n| reserved | Reserved | mon,tue,wed,thu,fri | 10:00 | 18:00 | America/Chicago |\n`;let md=setEntry(seed(),'2026-10-19','cook',true,'Keep this evidence')+reserved;const proposal={date:'2026-10-19',taskId:'cook',start:'19:00',end:'19:30',timezone:'America/Chicago',status:'suggested' as const,eventId:'-',eventUrl:'-'};md=saveTimeBlock(md,proposal);const board=parseBoard(md);assert.equal(board.entries[0].done,true);assert.equal(board.entries[0].detail,'Keep this evidence');assert.equal(board.sessions.length,0);assert.match(timeBlockLabel(timeBlockFor(board,'cook','2026-10-19')!),/Suggested · 7 PM–7:30 PM/);assert.equal(availabilityFor(board,'2026-10-19').length,1);assert.equal(availabilityFor(board,'2026-10-18').length,0);assert.throws(()=>saveTimeBlock(md,{...proposal,start:'17:30',end:'18:30'}),/overlaps Reserved/);assert.throws(()=>saveTimeBlock(md,{...proposal,taskId:'clean-room',start:'19:15',end:'19:45'}),/overlaps another/);assert.throws(()=>saveTimeBlock(md,{...proposal,status:'scheduled'}),/verified calendar event ID/);
 });

diff --git a/tests/plugin.test.ts b/tests/plugin.test.ts
@@ -7,6 +7,7 @@ import { starter } from '../src/starter';
 import { parseBoard, setEntry, startTimer, localDay } from '../src/model';
 import { dailyScaffold } from '../src/daily';
 import { addRoadmap } from '../src/roadmaps';
+import { timeBlockFor } from '../src/model';
 const require=createRequire(import.meta.url);
 const {JSDOM}=require('jsdom');
 const settle=()=>new Promise(resolve=>setTimeout(resolve,20));
@@ -113,4 +114,7 @@ test('color focus schedules its entire group, cues each task, and credits only e
 });
 test('quick counts render their total and unavailable cue APIs do not prevent focus',async()=>{
   const h=await harness();try{h.button('+5 reps').click();await settle();assert.match(h.view.contentEl.querySelector('.cs-quick-total').textContent,/5 reps/);Object.defineProperty(h.dom.window,'Notification',{value:{permission:'default',requestPermission(){throw new Error('Device API unavailable');}},configurable:true});h.view.contentEl.querySelector('[aria-label="Start meditation mode"]').click();await settle();assert.equal(parseBoard(h.text).timer!.taskId,'mindfulness');assert.ok(h.document.querySelector('.cs-focus-mode'));assert.equal(h.notices.length,0);}finally{await h.close();}
+});
+test('Day details saves suggested time and displays it on cards and week cells',async()=>{
+  const day=localDay();const h=await harness(setEntry(starter(),day,'cook',false,'Soup'));try{h.button('Day details').click();await settle();const modal=h.modals[0];for(const [name,value] of [['Suggested start','19:00'],['Suggested end','19:30'],['Time zone','America/Chicago']]){const input=modal.contentEl.querySelector(`[aria-label="${name}"]`);input.value=value;input.dispatchEvent(new h.dom.window.Event('input'));}h.button('Save',modal.contentEl).click();await settle();assert.equal(timeBlockFor(parseBoard(h.text),'cook',day)?.status,'suggested');assert.match(h.document.querySelector('.cs-time-slot').textContent,/7 PM–7:30 PM/);assert.equal(parseBoard(h.text).entries[0].detail,'Soup');assert.equal(parseBoard(h.text).entries[0].done,false);h.button('Week').click();await settle();assert.match(h.document.querySelector('.cs-cell-time').textContent,/~7 PM/);assert.equal(h.notices.length,0);}finally{await h.close();}
 });

diff --git a/styles.css b/styles.css
@@ -44,6 +44,10 @@
 .cs-card .cs-meta { font-size:11px; margin:4px 0 6px; }
 .cs-definition { margin:6px 0 12px; overflow-wrap:anywhere; }
 .cs-detail { font-size:14px; font-weight:650; margin:6px 0; }
+.cs-time-slot { font-size:12px; font-weight:650; margin:3px 0; color:var(--text-accent,var(--cs-ink)); }
+.cs-event-link { color:inherit; }
+.cs-cell-time { display:block; font-size:10px; white-space:nowrap; line-height:1.3; padding:2px 3px; }
+.cs-day-availability { color:var(--cs-muted); font-size:11px; margin:4px 0; overflow-x:auto; white-space:nowrap; }
 .cs-card.is-done .cs-task-title { text-decoration:line-through; color:var(--cs-muted); }
 .cs-actions { margin-top:12px; }
 .cs-quick-total { width:100%; color:var(--cs-muted); font-size:12px; font-weight:700; }

diff --git a/FORMAT.md b/FORMAT.md
@@ -94,6 +94,26 @@ Each subtask has a stable lowercase ID, a real parent task ID, suggested minutes
 
 Focus expands a parent or group into these steps. Done records the subtask date and advances; Skip advances without completion. Completing all subtasks does not mark the parent done. The daily wins display counts dated task completions and dated subtask completions separately; sessions and quick increments do not add completion wins. If you edit a subtask checkbox directly, fill its Completed date to include it in that day's count.
 
+## Time Blocks and Availability (optional)
+
+```md
+## Time Blocks
+
+| Date | Task ID | Start | End | Time zone | Status | Calendar event ID | Event URL |
+| --- | --- | --- | --- | --- | --- | --- | --- |
+| 2026-10-19 | cook | 19:00 | 19:30 | America/Chicago | suggested | - | - |
+
+## Availability
+
+| ID | Label | Days | Start | End | Time zone |
+| --- | --- | --- | --- | --- | --- |
+| reserved-block | Reserved | mon,tue,wed,thu,fri | 10:00 | 18:00 | America/Chicago |
+```
+
+Time Blocks adds a clock time separately from Schedule details and completion. Use 24-hour `HH:MM`, same-day end after start, and an IANA time zone. Status is `suggested`, `scheduled`, or `needs-review`. A `scheduled` block requires a provider event ID; absent IDs/URLs use `-`. Card labels show the range and status, week cells show `~` before suggested start times, and accessible labels include the time zone. Edit start/end from Day details. Saving a new time also creates an unchecked Schedule entry if needed, and retains existing details/completions.
+
+Availability is protected time, not a spreadsheet task or completion win. Days use `daily` or comma-separated weekday tokens like Repeat. The editor rejects overlap with protected blocks or other task blocks in the same time zone; different-zone conflict checks must be performed by the calendar reconciliation workflow. A linked Google event must be reconciled separately after changing its proposed time. This plugin does not hold Google credentials or create events itself; the scheduling assistant uses the connected Google Calendar integration and writes verified provider references back to Markdown.
+
 ## Workout Log (optional)
 
 ```md

diff --git a/README.md b/README.md
@@ -57,6 +57,8 @@ Embedded and full-screen dashboards share the same tracker note. They do not dup
 
 ## Mobile behavior and limits
 
+Optional Markdown Time Blocks display suggested start/end times on cards and in the weekly cells. Set them in Day details; Availability holds protected time separately from task counts. Google Calendar synchronization is performed by the scheduling assistant through its connected Calendar integration, with provider IDs stored in private vault data. The Obsidian plugin displays that data and makes no Google API calls. See [FORMAT.md](FORMAT.md) for both schemas and sync status rules.
+
 No Node.js, filesystem, Electron, or network APIs are used by the plugin. Obsidian's Vault API performs reads and atomic edits. No account, analytics, or external service is required.
 
 iOS can suspend Obsidian. The timer uses persisted timestamps instead of counting background ticks, so elapsed time is reconstructed on return. **There is no background alarm or push notification.** The timer continues until you pause/save; reaching the focus target does not end it or mark work complete. Before changing devices, pause or save the timer. Vault sync conflicts across two simultaneously active devices still require your sync provider's conflict handling.
